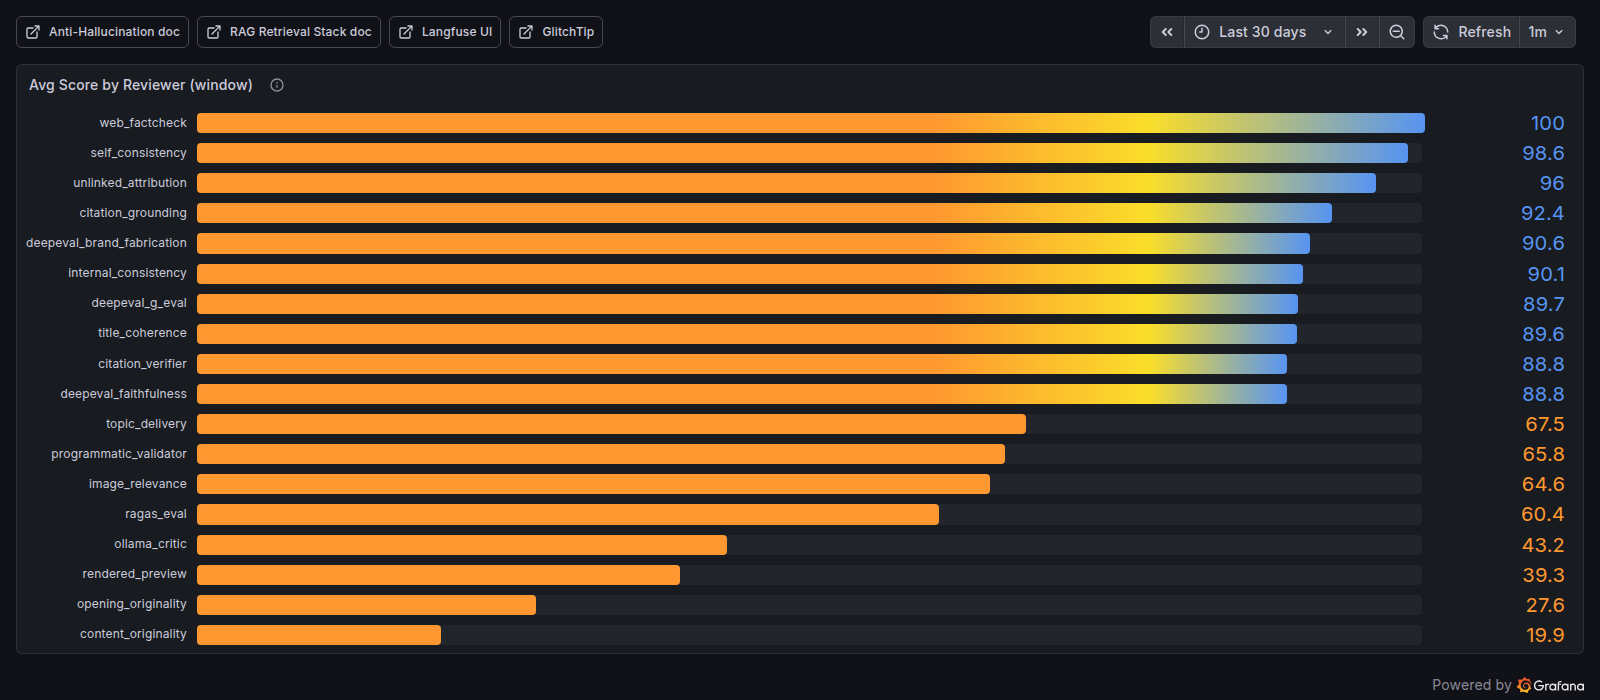
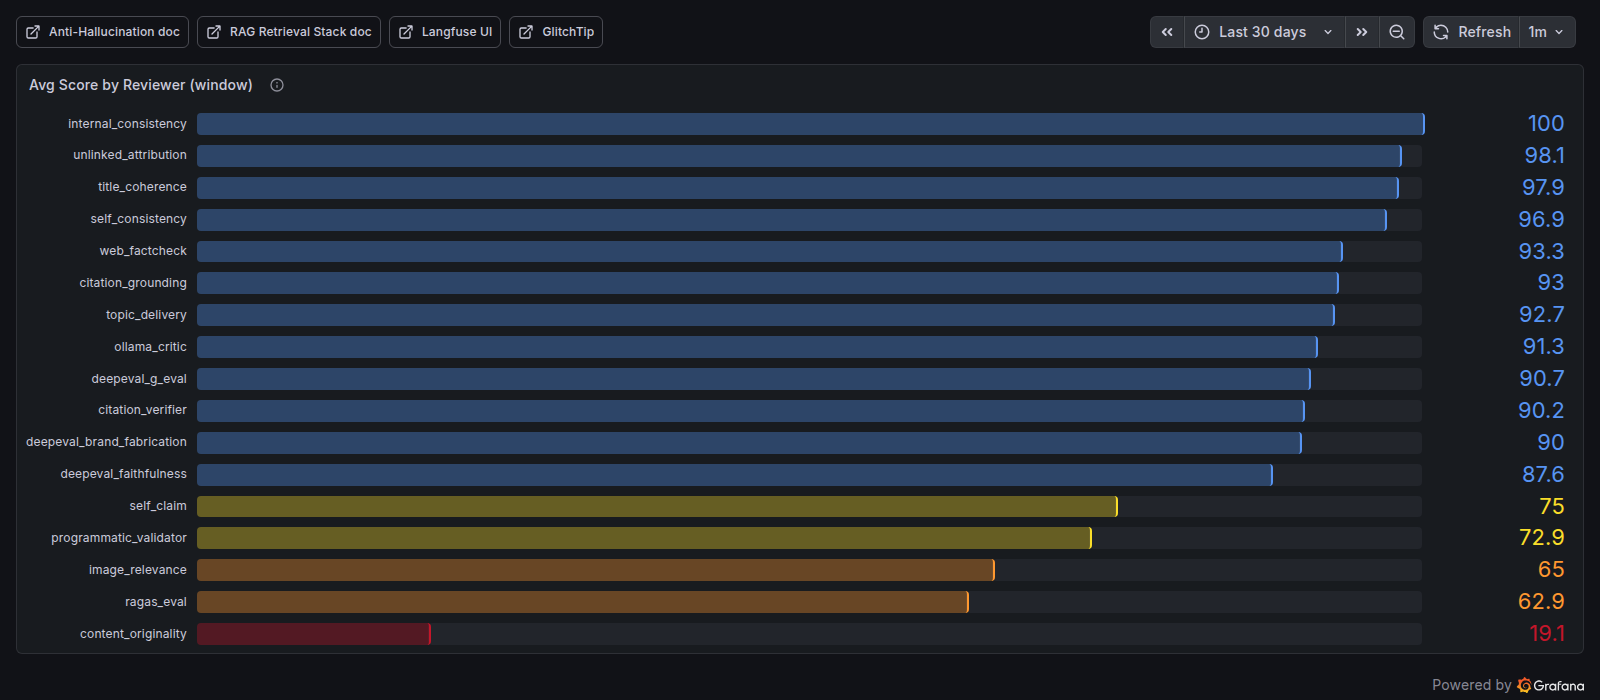
fix(readme): re-shoot the QA reviewers panel; alt text described a stale image (#3530)
The "18 signals" alt text was accurate — I counted 18 rows in the committed
screenshot. The stale thing was the PICTURE. It still showed
`opening_originality`, a reviewer renamed to `content_originality` back in
July (migration 20260712_084907), so it depicted a state that has not
existed for seven weeks, alongside a score distribution that no longer
holds (`ollama_critic` 43.2 then, 91.3 now).

Editing the number alone would have made the alt text WRONG — 17 words
against an 18-row image — so re-shoot the panel instead, via the sanctioned
`scripts/capture-readme-screenshots.mjs --only qa-reviewers` (panel 7 of
/d/qa-rails, `from=now-30d`). The new shot has 17 rows and matches the
panel's own SQL run against prod, row for row. Reviewed the PNG for private
strings per the script's warning: link labels only, no hostnames or IPs.

Alt text now quotes the new picture: 17 signals, internal_consistency at
100 down to content_originality at 19.1.

The caption gains one clause reconciling 14 rails with 17 reviewers: the
DeepEval rail emits three reviewers and the citation rail two, so
14 rails -> 17 signals exactly. Deliberately worded WITHOUT restating "14",
because the nightly sync owns that number under a `the N QA rails` anchor
and a second hand-typed copy would drift the moment a rail is added.

Not auto-synced, on purpose. This is the one README stat class the
anchored-regex nightly must NOT own: the number has to match committed
[…]

diff --git a/README.md b/README.md
@@ -105,9 +105,9 @@ Run it on your machine. Own your data. No cloud lock-in.
 
 Most AI content tools optimize for output volume. Poindexter optimizes for **curation**: it generates candidates, then makes each one survive 14 QA rails — cross-model LLM critics, DeepEval and Ragas evaluations, deterministic anti-hallucination validators, citation verification against the research corpus, and vision QA on every generated image. Roughly half of all drafts don't make it.
 
-<img src="docs/assets/readme/grafana-qa-reviewers.png" alt="Grafana QA Rails panel — average score per reviewer across 18 signals, from web_factcheck at 100 down to strict originality rails" width="100%">
+<img src="docs/assets/readme/grafana-qa-reviewers.png" alt="Grafana QA Rails panel — average score per reviewer across 17 signals, from internal_consistency at 100 down to content_originality at 19.1" width="100%">
 
-_Real 30-day per-reviewer averages from the QA Rails dashboard. The strict rails at the bottom are why the output doesn't read like AI slop — speed comes from generating more candidates and filtering hard, not from lowering the bar._
+_Real 30-day per-reviewer averages from the QA Rails dashboard — more reviewers than rails, because the DeepEval rail scores three and the citation rail two. The strict rails at the bottom are why the output doesn't read like AI slop — speed comes from generating more candidates and filtering hard, not from lowering the bar._
 
 Every rail is DB-configurable: advisory or blocking per rail, thresholds tunable at runtime, and a bounded rescue cycle gives near-miss drafts one revision pass before the hard reject.
 
